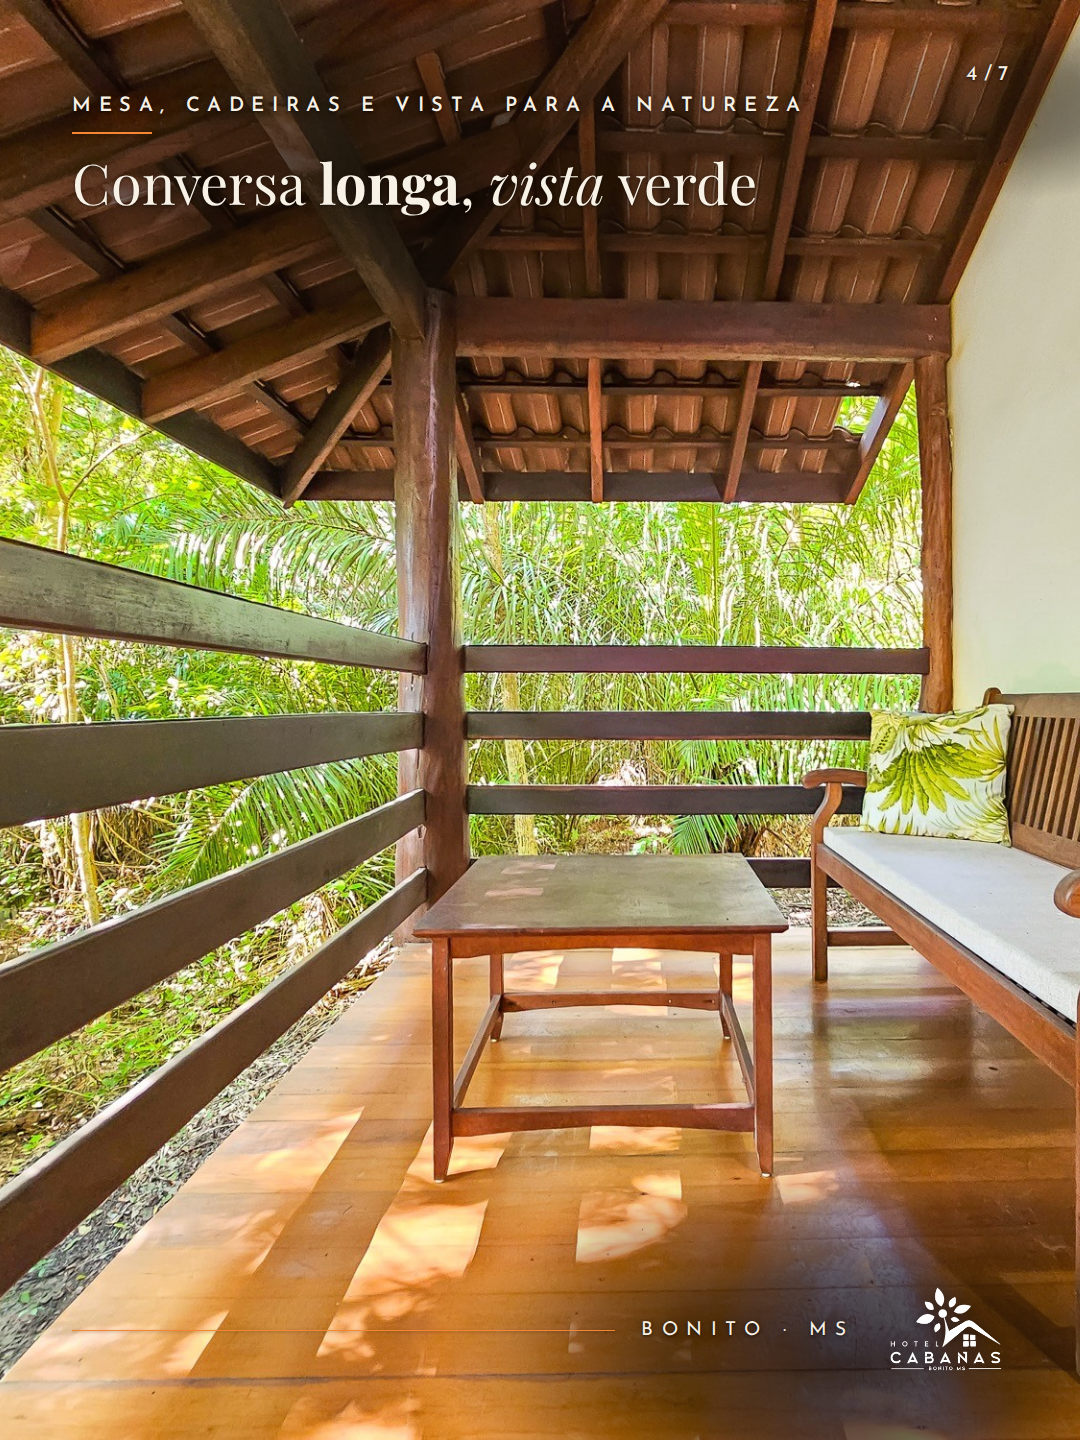
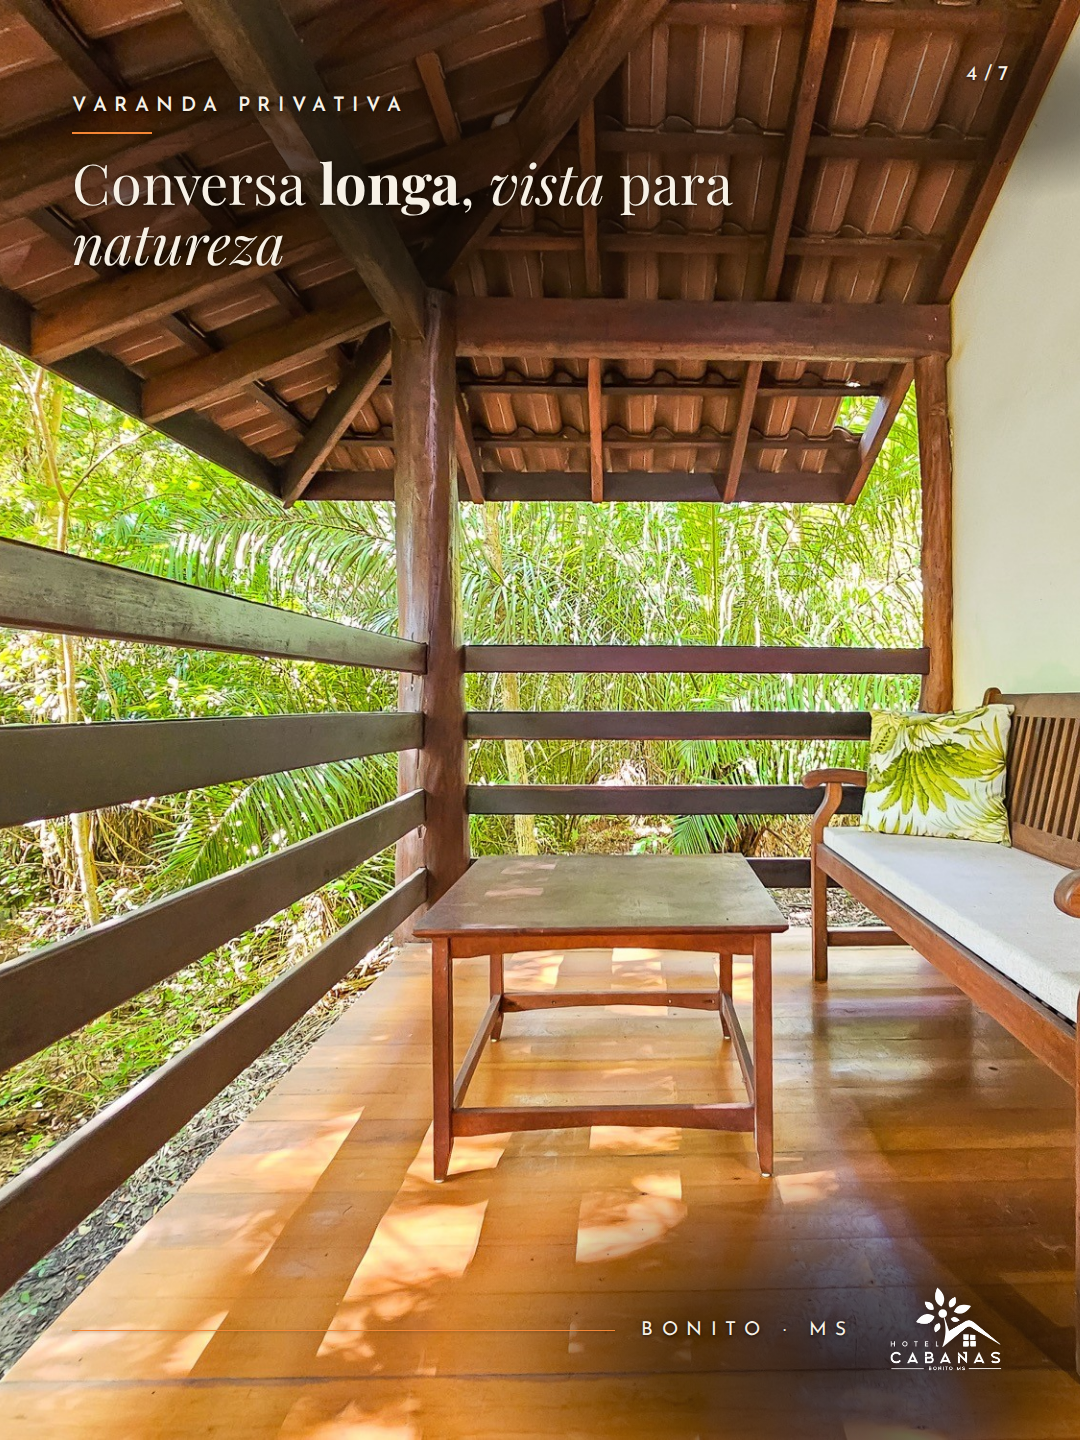
POST 16: telas 4 e 5 com os textos editados pelo dono na Central, nos 3 estilos
Claude-Session: https://claude.ai/code/session_01GffBmxQFJnfaKwiJFV7qgT

diff --git a/design/pecas/2026-10-instagram/POST-16/peca-caixa-4.html b/design/pecas/2026-10-instagram/POST-16/peca-caixa-4.html
@@ -19,8 +19,8 @@
   <div class="sombra" style="left: 900px; top: 25px; width: 200px; height: 120px; --forca: 0.55"></div>
   <span class="num-sf">4/7</span>
   <div class="cc" style="--topo: 150px">
-    <div class="cc-caixa"><h1 class="titulo">Conversa longa, vista verde</h1></div>
-    <p class="cc-apoio">Mesa, cadeiras e vista para a natureza</p>
+    <div class="cc-caixa"><h1 class="titulo">Conversa longa, vista para natureza</h1></div>
+    <p class="cc-apoio">Varanda privativa</p>
   </div>
   <div class="cc-selo base">
     <img src="../../../../contexto/marca/logo-hotel-cabanas-branco.png" alt="Hotel Cabanas">

diff --git a/design/pecas/2026-10-instagram/POST-16/peca-sem-faixa-4.html b/design/pecas/2026-10-instagram/POST-16/peca-sem-faixa-4.html
@@ -19,9 +19,9 @@
   <div class="sombra" style="left: 860px; top: 10px; width: 320px; height: 190px; --forca: 0.5"></div>
   <span class="num-sf">4/7</span>
   <div class="bloco-sf cima">
-      <p class="apoio">Mesa, cadeiras e vista para a natureza</p>
+      <p class="apoio">Varanda privativa</p>
       <div class="linha"></div>
-      <h1 class="titulo">Conversa <b>longa</b>, <i>vista</i> verde</h1>
+      <h1 class="titulo">Conversa <b>longa</b>, <i>vista</i> para <i>natureza</i></h1>
   </div>
   <div class="assin-sf">
     <span class="fio"></span>

diff --git a/design/pecas/2026-10-instagram/POST-16/peca-caixa-5.html b/design/pecas/2026-10-instagram/POST-16/peca-caixa-5.html
@@ -19,7 +19,7 @@
   <div class="sombra" style="left: 900px; top: 25px; width: 200px; height: 120px; --forca: 0.55"></div>
   <span class="num-sf">5/7</span>
   <div class="cc" style="--topo: 110px">
-    <div class="cc-caixa"><h1 class="titulo duas">Todos juntos,<br>cada um no seu canto</h1></div>
+    <div class="cc-caixa"><h1 class="titulo duas">Espaço amplo,<br>e confortável</h1></div>
     <p class="cc-apoio">Cama de casal + 2 camas de solteiro</p>
   </div>
   <div class="cc-selo base">

diff --git a/design/pecas/2026-10-instagram/POST-16/peca-4.html b/design/pecas/2026-10-instagram/POST-16/peca-4.html
@@ -16,9 +16,9 @@
   <img class="foto" src="foto-4.jpg" alt="">
   <div class="rodape faixa">
     <div class="texto">
-      <p class="apoio">Mesa, cadeiras e vista para a natureza</p>
+      <p class="apoio">Varanda privativa</p>
       <div class="linha"></div>
-      <h1 class="titulo">Conversa <b>longa</b>, <i>vista</i> verde</h1>
+      <h1 class="titulo">Conversa <b>longa</b>, <i>vista</i> para <i>natureza</i></h1>
     </div>
     <div class="marca">
       <span class="num">4/7</span>

diff --git a/design/pecas/2026-10-instagram/POST-16/peca-5.html b/design/pecas/2026-10-instagram/POST-16/peca-5.html
@@ -18,7 +18,7 @@
     <div class="texto">
       <p class="apoio">Cama de casal + 2 camas de solteiro</p>
       <div class="linha"></div>
-      <h1 class="titulo">Todos <b>juntos</b>,<br>cada um no seu <i>canto</i></h1>
+      <h1 class="titulo">Espaço <b>amplo</b>,<br>e <i>confortável</i></h1>
     </div>
     <div class="marca">
       <span class="num">5/7</span>

diff --git a/design/pecas/2026-10-instagram/POST-16/peca-sem-faixa-5.html b/design/pecas/2026-10-instagram/POST-16/peca-sem-faixa-5.html
@@ -21,7 +21,7 @@
   <div class="bloco-sf cima">
       <p class="apoio">Cama de casal + 2 camas de solteiro</p>
       <div class="linha"></div>
-      <h1 class="titulo">Todos <b>juntos</b>,<br>cada um no seu <i>canto</i></h1>
+      <h1 class="titulo">Espaço <b>amplo</b>,<br>e <i>confortável</i></h1>
   </div>
   <div class="assin-sf">
     <span class="fio"></span>

diff --git a/social/conteudo/2026-10/conteudo.md b/social/conteudo/2026-10/conteudo.md
@@ -549,8 +549,8 @@ Feed 3:4 (1080 × 1440). Um só layout em todas as telas (o dono prefere **sem f
 - TELA 1 (capa): apoio "BANGALÔ · 40 M² · 2 A 4 PESSOAS" · "Espaço para **quatro**, *natureza* em volta" (6) (foto: `Bangalô / bangalo_triplo_externa` (1bcxsg), https://drive.google.com/file/d/1bcxsgpVwVIjIhTqakffLIPrF3pDZvUEi/view; alternativa: `bangalo_triplo_externa` (1wbIC8))
 - TELA 2: apoio "ALVENARIA ELEVADA · NÃO DIVIDE PAREDES" · "Nenhuma **parede** em *comum*" (4) (foto: `Bangalô / bangalo_externa` (1Ys225), https://drive.google.com/file/d/1Ys2258SPxaO5ah1XvSLWK8IqAGOCrx3C/view; já confirmada como Bangalô no POST 07)
 - TELA 3: apoio "VARANDA PRIVATIVA COM REDE" · "A **rede** *espera* depois da trilha" (6) (foto: `Bangalô / bangalo_triplo_varanda_com _rede` (1YJx7o), https://drive.google.com/file/d/1YJx7oxm9B2-6m2riSvdhQfWdUVgpsyNo/view; alternativa: `bangalo_quadruplo_varanda_com_rede` (1c3Ru5), já usada no POST 07)
-- TELA 4: apoio "MESA, CADEIRAS E VISTA PARA A NATUREZA" · "Conversa **longa**, *vista* verde" (4) (foto: `Bangalô / bangalo_triplo_varanda` (1WZSUd), https://drive.google.com/file/d/1WZSUdBcTUezcjnZwCvvxPKNRDwHXxKRA/view)
-- TELA 5: apoio "CAMA DE CASAL + 2 CAMAS DE SOLTEIRO" · "Todos **juntos**, cada um no seu *canto*" (7) (foto: `Bangalô / bangalo_quadruplo_interna` (1d-UlW), https://drive.google.com/file/d/1d-UlWVw-I06W9AND9MgIZklVzv3hHUTl/view; **trocada pelo Designer**: é a única que mostra a cama de casal e as 2 de solteiro no mesmo quadro; a 1Pcz3a e a 1r9eJt cortam uma das camas de solteiro)
+- TELA 4: apoio "VARANDA PRIVATIVA" · "Conversa **longa**, *vista* para *natureza*" (5) (texto editado pelo dono na Central em 29/09) (foto: `Bangalô / bangalo_triplo_varanda` (1WZSUd), https://drive.google.com/file/d/1WZSUdBcTUezcjnZwCvvxPKNRDwHXxKRA/view)
+- TELA 5: apoio "CAMA DE CASAL + 2 CAMAS DE SOLTEIRO" · "Espaço **amplo**, e *confortável*" (4) (texto editado pelo dono na Central em 29/09) (foto: `Bangalô / bangalo_quadruplo_interna` (1d-UlW), https://drive.google.com/file/d/1d-UlWVw-I06W9AND9MgIZklVzv3hHUTl/view; **trocada pelo Designer**: é a única que mostra a cama de casal e as 2 de solteiro no mesmo quadro; a 1Pcz3a e a 1r9eJt cortam uma das camas de solteiro)
 - TELA 6: apoio "DUCHA COM AQUECIMENTO SOLAR E A GÁS" · "**Banho** quente depois do *rio*" (5) (foto: `Bangalô / bangalo_triplo_banheiro` (1DpWTs), https://drive.google.com/file/d/1DpWTsbU7sOQrbOwTkBesdXu2QEsdEPLn/view; **trocada pelo Designer**: na 1L53TA o vaso sanitário fica em primeiro plano no recorte vertical; na 1DpWTs aparecem o box, o chuveiro e a janela)
 - TELA 7 (CTA): apoio "RESERVE DIRETO · sbreserva.silbeck.com.br/hotelcabanas · WHATSAPP (67) 99117-1648" · "Seu **lugar** de *conexão*, em família" (6) (foto: `Bangalô / bangalo_triplo_externa` (1wbIC8), https://drive.google.com/file/d/1wbIC8lY9OGlS36Qu_9X8BpDYg7b9TqvS/view; mantida: mostra o mesmo bangalô de outro ângulo, a lateral com a janela ampla, e não é quase igual à da capa)
 - Fora do carrossel: `bangalo_quadruplo_clouset` (1fEZoM, 1HQIwo), `bangalo_triplo_clouset` (1kp8SE, 1Jggn8) e `bangalo_triplo_interna` (1Kemg6, 1PmfzQ, 19qZPQ) ficam como reserva.
@@ -582,8 +582,8 @@ Ajustadas pelo Designer ao que as fotos mostram (29/09/2026).
 - TELA 1: "Bangalô do Hotel Cabanas, de alvenaria em tom creme e telhado de telhas, elevado do chão sobre pilares, com escada de madeira, cercado de árvores. Texto: Espaço para quatro, natureza em volta."
 - TELA 2: "Bangalô visto de frente, sozinho entre palmeiras e árvores, elevado do chão, com escada e varanda de madeira. Texto: Nenhuma parede em comum."
 - TELA 3: "Varanda do Bangalô com uma rede colorida armada, piso de madeira e a mata ao fundo. Texto: A rede espera depois da trilha."
-- TELA 4: "Varanda do Bangalô com mesa de madeira, banco com almofadas e vista para a mata. Texto: Conversa longa, vista verde."
-- TELA 5: "Quarto do Bangalô com uma cama de casal ao centro e duas camas de solteiro, uma de cada lado, com toalhas dobradas e forro de madeira. Texto: Todos juntos, cada um no seu canto."
+- TELA 4: "Varanda do Bangalô com mesa de madeira, banco com almofadas e vista para a mata. Texto: Conversa longa, vista para natureza."
+- TELA 5: "Quarto do Bangalô com uma cama de casal ao centro e duas camas de solteiro, uma de cada lado, com toalhas dobradas e forro de madeira. Texto: Espaço amplo e confortável."
 - TELA 6: "Banheiro do Bangalô com box de vidro, chuveiro e parede de ladrilhos estampados. Texto: Banho quente depois do rio."
 - TELA 7: "Bangalô do Hotel Cabanas visto de lado, elevado do chão, com janela ampla e escada de madeira, entre árvores e palmeiras. Texto: Seu lugar de conexão, em família. Reserve direto em sbreserva.silbeck.com.br/hotelcabanas ou pelo WhatsApp (67) 99117-1648."
 
